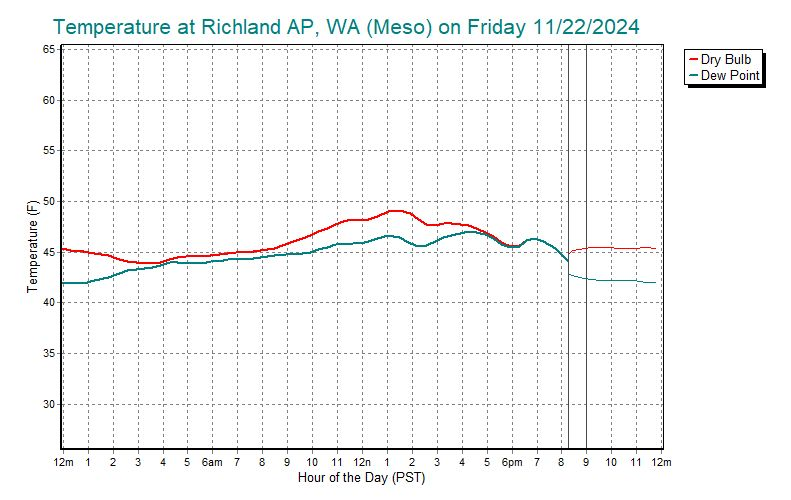
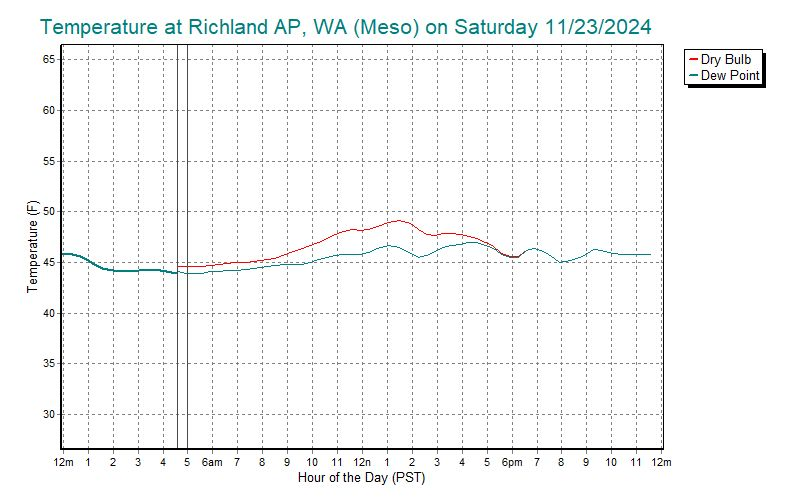
another update

diff --git a/charts.html b/charts.html
@@ -88,7 +88,7 @@
 	<p><b><font face="Arial" size="5">Samples from Rosy.asp</font></b></p>
    </div>
    <p><span>
-(24-hour charts updated Friday, November 22, 2024 at 11:00PM Central).
+(24-hour charts updated Saturday, November 23, 2024 at 07:00AM Central).
    </span></p>
    <p>The orginal ASP page is named Rosy, a nickname windsurfers from the Tri-Cities gave Roosevelt, a sailing site on the east end of the Columbia River gorge.</p>
 	<p>This first pair of sample charts, wind and temperature, is updated every 

diff --git a/charts_input.html b/charts_input.html
@@ -88,7 +88,7 @@
 	<p><b><font face="Arial" size="5">Samples from Rosy.asp</font></b></p>
    </div>
    <p><span>
-(24-hour charts updated Friday, November 22, 2024 at 11:00PM Central).
+(24-hour charts updated Saturday, November 23, 2024 at 07:00AM Central).
    </span></p>
    <p>The orginal ASP page is named Rosy, a nickname windsurfers from the Tri-Cities gave Roosevelt, a sailing site on the east end of the Columbia River gorge.</p>
 	<p>This first pair of sample charts, wind and temperature, is updated every 
